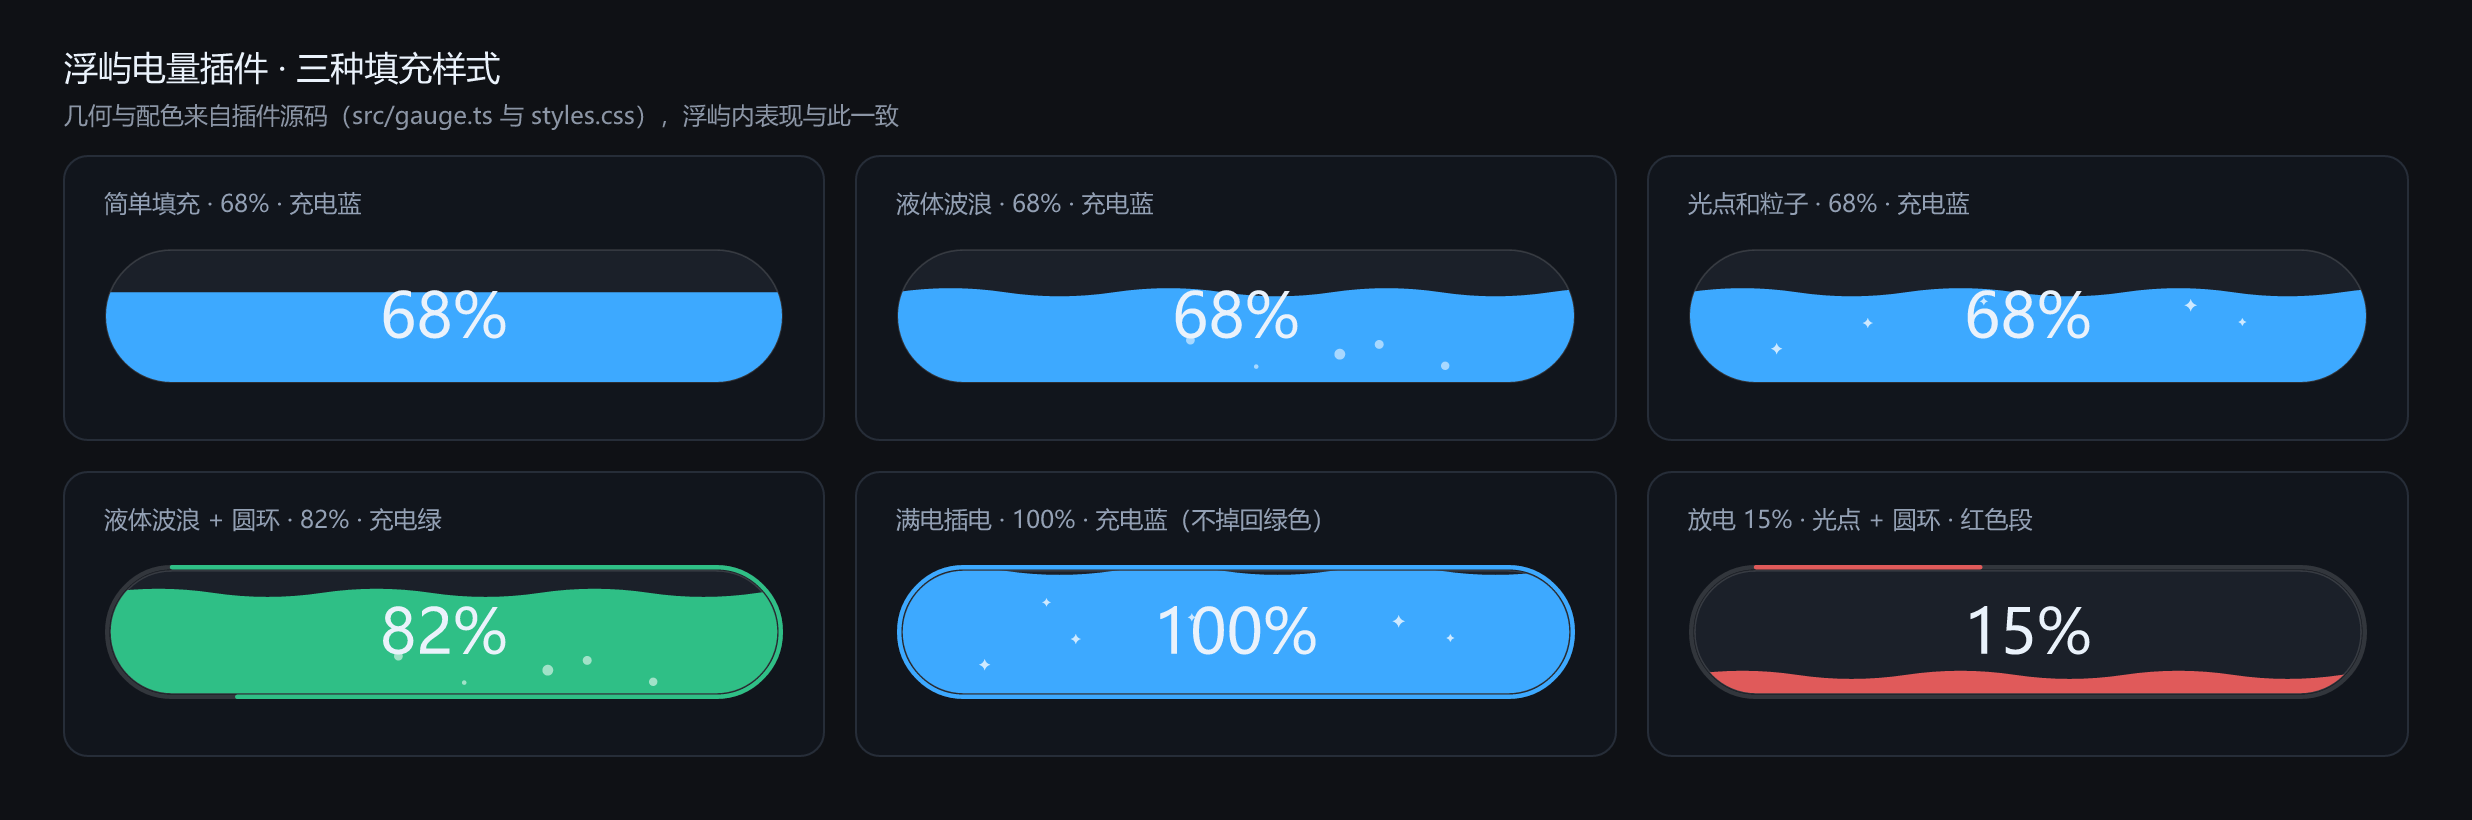
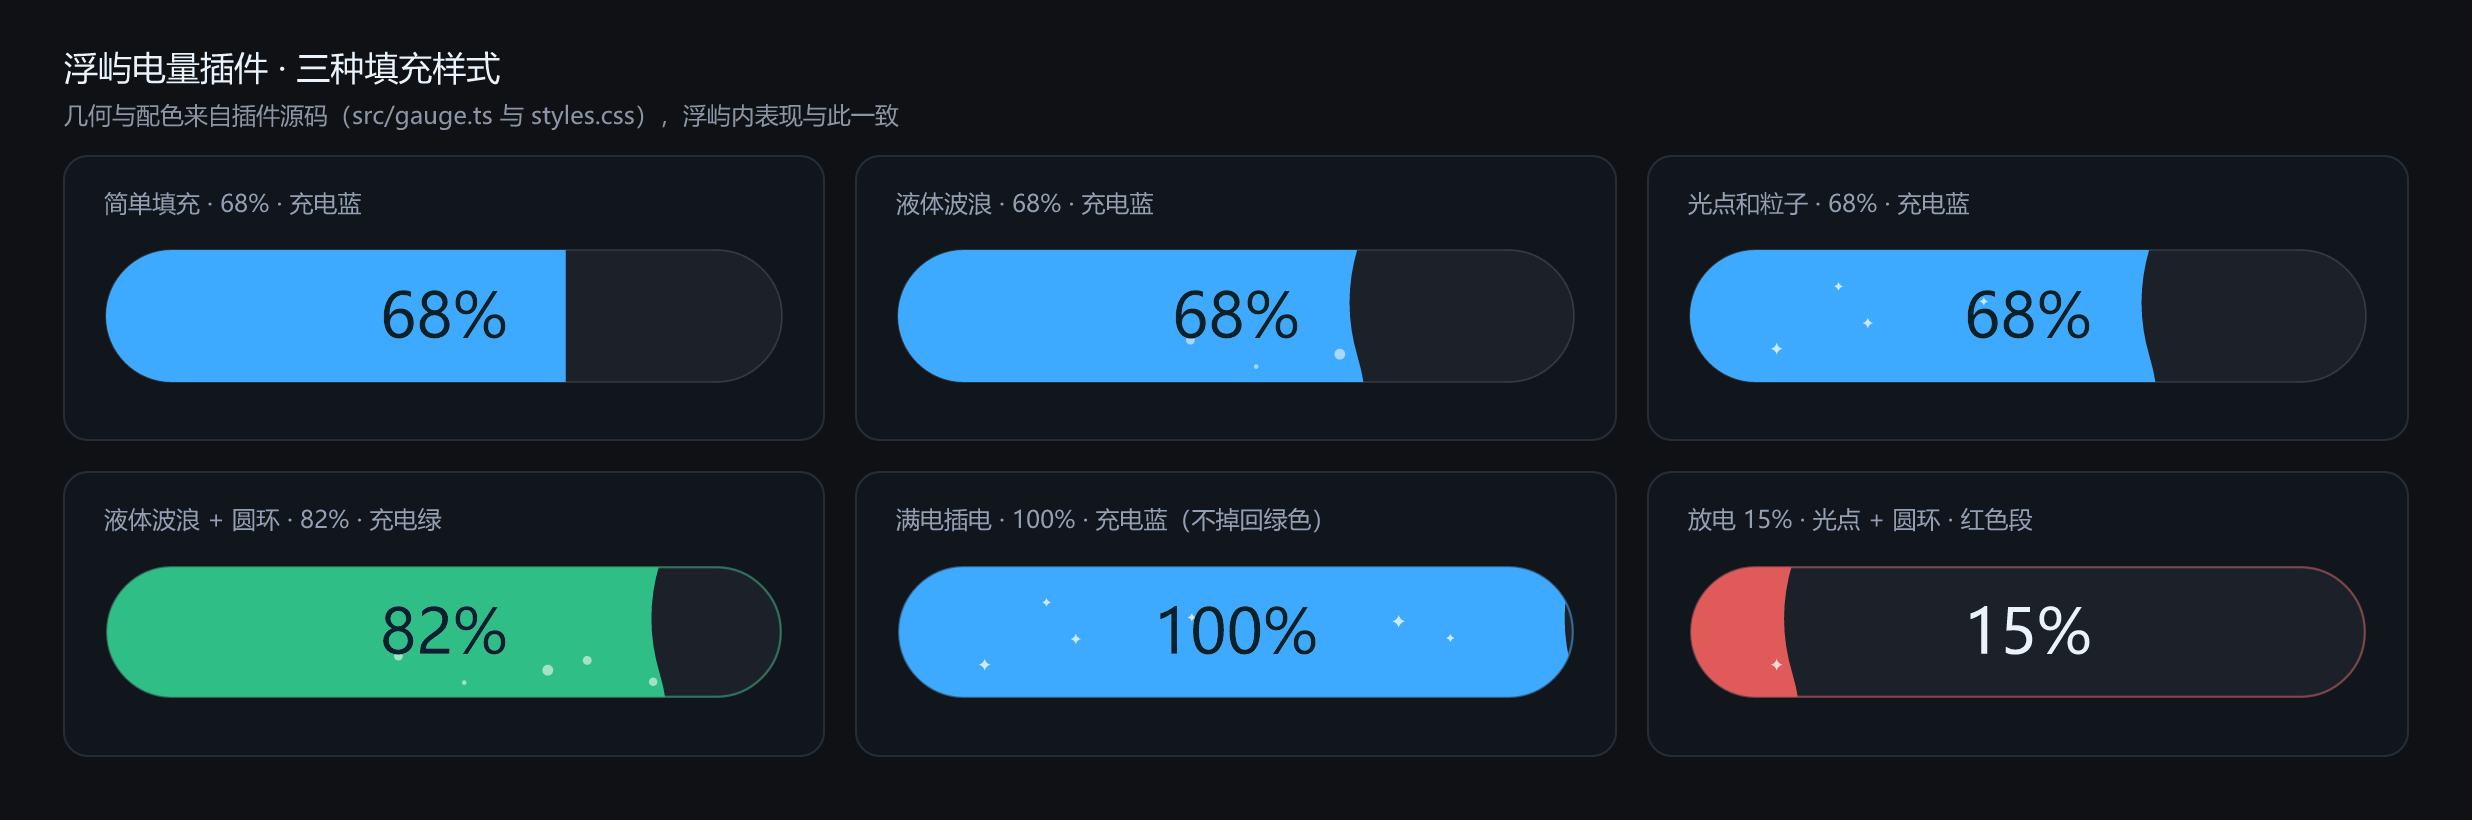
feat: fill the capsule left to right, keep the waterline in widgets
The island page now fills like a progress bar: the liquid advances from the
left edge instead of rising from the bottom, so levelOf/wavePath are joined by
fillXOf/wavePathH in gauge.ts.

Widgets keep the old water level. A bar that fills sideways turns into a plain
colour block in a square card, so Gauge takes orientation="v" and Widget passes
it. Vertical waves take their period from the width (w/2); the old h*1.6 put
half a wave in a square card and read as a slanted line.

Two fixes that came with the move:

- the vertical wave travelled 1.5 periods while the path only extends one, so
  the left edge slid into view mid-animation and left a vertical seam. It now
  travels exactly one period, with 4px of extra margin.
- a progress ring around the capsule measured the same thing as the fill but
  drew it somewhere else (at 15% the arc sat top right while the liquid was on
  the left), so the ring is now a 1.2px same-colour outline at 40% opacity.

The percentage is drawn twice, light over the empty part and dark clipped to
the liquid, so it stays readable where the fill crosses the middle. Particles
drift sideways, and a 12% white band sweeps once every 3.6s while charging.

diff --git a/src/island.tsx b/src/island.tsx
@@ -1,6 +1,6 @@
 import type { Context } from "fuyu-plugin";
 import { useEffect, useId, useState, type CSSProperties } from "react";
-import { bubbles, capsulePath, capsulePerimeter, levelOf, sparkles, starPath, wavePath } from "./gauge.ts";
+import { bubbles, capsulePath, fillXOf, levelOf, sparkles, starPath, wavePath, wavePathH } from "./gauge.ts";
 import { text } from "./text.ts";
 import {
   DEFAULT_CONFIG,
@@ -61,28 +61,47 @@ type GaugeProps = {
   style: FillStyle;
   showRing: boolean;
   animate: boolean;
+  charging: boolean;
+  /** h：液面竖直、从左往右推进（展开页）；v：液面水平、由下往上涨（挂件位，沿用原样式）。 */
+  orientation?: "h" | "v";
 };
 
 // 三种样式共用一套几何：simple 只填色，wave 加正弦液面，sparkle 再叠光点。
-function Gauge({ w, h, percent, ok, color, style, showRing, animate }: GaugeProps) {
+function Gauge({ w, h, percent, ok, color, style, showRing, animate, charging, orientation = "h" }: GaugeProps) {
   const uid = useId().replace(/[^a-zA-Z0-9]/g, "");
-  const inset = showRing ? 3.4 : 1;
-  const level = levelOf(percent, inset, Math.max(1, h - inset * 2));
-  const period = Math.max(32, Math.round(h * 1.6));
-  const amp = Math.max(1.4, Math.min(5, h * 0.06));
+  const inset = showRing ? 1.6 : 1;
+  const vertical = orientation === "v";
+  const fillX = vertical ? 0 : fillXOf(percent, inset, Math.max(1, w - inset * 2));
+  const level = vertical ? levelOf(percent, inset, Math.max(1, h - inset * 2)) : 0;
+  // 波浪周期取推进方向的垂直边：横条沿高度振荡，水位沿宽度振荡。
+  // 水位在方形卡片里如果沿用 h*1.6，一个画面只装得下半个波，看着像一条斜直线，所以按宽度收。
+  const period = vertical ? Math.max(32, Math.round(w / 2)) : Math.max(32, Math.round(h * 1.6));
+  const amp = vertical ? Math.max(1.4, Math.min(7, h * 0.04)) : Math.max(1.4, Math.min(5, h * 0.06));
   const fontSize = Math.max(11, Math.min(34, Math.round(h * 0.46)));
-  const ringPerim = capsulePerimeter(w, h, 1.6);
+  const label = ok ? `${percent}%` : "--";
   const vars = {
+    // 液面左右轻晃 ±2：幅度小到只像水面在颤，不会被读成电量在跳。
+    "--battery-sway": `${Math.max(1.5, Math.min(3, w * 0.008)).toFixed(1)}px`,
+    // 水位模式靠平移「一个周期」表现流动：波形路径左右各多画一个周期，
+    // 平移量超过一个周期，路径左边缘就会滑进画面，左侧露出底色（一条竖缝）。
     "--battery-wave-period": `${period}px`,
-    "--battery-rise": `${Math.max(12, h * 0.55)}px`,
+    // 粒子横向漂移的距离：跟着宽度走，窄条上不会一步跨出边界。
+    "--battery-flow": `${Math.round(Math.max(36, w * 0.14))}px`,
+    // 光带从左侧画外扫到右侧画外，行程按画布宽度算。
+    "--battery-sheen-travel": `${Math.round(w * 1.3)}px`,
   } as Record<string, string>;
 
-  const liquid =
-    style === "simple" ? (
-      <rect x={0} y={level} width={w} height={Math.max(0, h - level)} fill={color} />
-    ) : (
-      <path d={wavePath(w, h, level, period, amp)} fill={color} />
-    );
+  const liquid = vertical
+    ? style === "simple"
+      ? <rect x={0} y={level} width={w} height={Math.max(0, h - level)} fill={color} />
+      : <path d={wavePath(w, h, level, period, amp)} fill={color} />
+    : style === "simple"
+      ? <rect x={0} y={0} width={Math.max(0, fillX)} height={h} fill={color} />
+      : <path d={wavePathH(h, fillX, period, amp)} fill={color} />
+
+  const liquidClip = vertical
+    ? <rect x={0} y={level} width={w} height={Math.max(0, h - level)} />
+    : <rect x={0} y={0} width={Math.max(0, fillX)} height={h} />;
 
   return (
     <svg
@@ -99,16 +118,14 @@ function Gauge({ w, h, percent, ok, color, style, showRing, animate }: GaugeProp
         <clipPath id={`bcap${uid}`}>
           <path d={capsulePath(w, h, inset)} />
         </clipPath>
-        <clipPath id={`bliq${uid}`}>
-          <rect x={0} y={level} width={w} height={Math.max(0, h - level)} />
-        </clipPath>
+        <clipPath id={`bliq${uid}`}>{liquidClip}</clipPath>
       </defs>
       <path d={capsulePath(w, h, inset)} fill="var(--fuyu-plugin-surface)" stroke="var(--fuyu-plugin-border)" strokeWidth={0.8} />
       <g clipPath={`url(#bcap${uid})`}>
         {style === "simple" || !animate ? (
           liquid
         ) : (
-          <g className="battery-wave">{liquid}</g>
+          <g className={vertical ? "battery-wave battery-wave--v" : "battery-wave"}>{liquid}</g>
         )}
         {animate && style !== "simple" && (
           <g clipPath={`url(#bliq${uid})`}>
@@ -137,19 +154,31 @@ function Gauge({ w, h, percent, ok, color, style, showRing, animate }: GaugeProp
               ))}
           </g>
         )}
+        {/* 只在充电时扫光：液面以下的裁剪避免 100% 时压着胶囊顶边闪。 */}
+        {animate && charging && (
+          <g clipPath={`url(#bliq${uid})`}>
+            <rect
+              className="battery-sheen"
+              x={-w * 0.28}
+              y={0}
+              width={Math.max(24, w * 0.22)}
+              height={h}
+              rx={h / 2}
+              fill="#ffffff"
+              opacity={0}
+            />
+          </g>
+        )}
       </g>
-      {showRing && (
-        <path d={capsulePath(w, h, 1.6)} fill="none" stroke="var(--fuyu-plugin-border)" strokeWidth={2.2} />
-      )}
+      {/* 外描边：横向填充下圆环进度会和填充长度打架（15% 时刻度在右上角、液体在左边），
+          所以这里只勾一圈同色边，进度交给液面表达。 */}
       {showRing && (
         <path
           d={capsulePath(w, h, 1.6)}
           fill="none"
           stroke={color}
-          strokeWidth={2.2}
-          strokeLinecap="round"
-          strokeDasharray={ringPerim}
-          strokeDashoffset={ringPerim * (1 - percent / 100)}
+          strokeWidth={1.2}
+          opacity={0.4}
         />
       )}
       <text
@@ -161,8 +190,22 @@ function Gauge({ w, h, percent, ok, color, style, showRing, animate }: GaugeProp
         fontWeight={500}
         fill="var(--fuyu-plugin-text)"
       >
-        {ok ? `${percent}%` : "--"}
+        {label}
       </text>
+      {/* 液面盖住的半个字换深色：横条填到一半时，单色字必然有一半糊在底色里。 */}
+      <g clipPath={`url(#bliq${uid})`} aria-hidden="true">
+        <text
+          x={w / 2}
+          y={h / 2}
+          textAnchor="middle"
+          dominantBaseline="central"
+          fontSize={fontSize}
+          fontWeight={500}
+          fill="#06222f"
+        >
+          {label}
+        </text>
+      </g>
     </svg>
   );
 }
@@ -226,6 +269,7 @@ export default function apply(ctx: Context) {
             style={config.style}
             showRing={config.showRing}
             animate={config.animate}
+            charging={state.charging}
           />
         </div>
         <div className="battery__meta">
@@ -277,6 +321,8 @@ export default function apply(ctx: Context) {
             style={config.style}
             showRing={config.showRing}
             animate={config.animate}
+            charging={state.charging}
+            orientation="v"
           />
         </div>
         {!compact && (

diff --git a/src/styles.css b/src/styles.css
@@ -126,35 +126,77 @@
   font-variant-numeric: tabular-nums;
 }
 
+/* 横条填充下液面是纵波，左右轻晃 ±2：再大就会被读成电量在跳。 */
+@keyframes battery-wave-sway {
+  from {
+    transform: translateX(calc(var(--battery-sway, 2px) * -1));
+  }
+  to {
+    transform: translateX(var(--battery-sway, 2px));
+  }
+}
+
+.battery-wave {
+  animation: battery-wave-sway var(--battery-wave-dur, 4.8s) ease-in-out infinite alternate;
+}
+
+/* 挂件位沿用原来的「水位」：水面是横的，靠平移一个周期表现流动。 */
 @keyframes battery-wave-shift {
   from {
     transform: translateX(0);
   }
   to {
-    transform: translateX(calc(var(--battery-wave-period, 80px) * -1));
+    transform: translateX(var(--battery-wave-period, 80px));
   }
 }
 
-.battery-wave {
+.battery-wave--v {
   animation: battery-wave-shift var(--battery-wave-dur, 3.6s) linear infinite;
 }
 
-@keyframes battery-bubble-rise {
+/* 粒子改横向漂移：原来上下浮动会让人读成「在冒泡」，不是「在流动」。 */
+@keyframes battery-bubble-flow {
   0% {
-    transform: translateY(0);
+    transform: translateX(0);
     opacity: 0;
   }
-  20% {
-    opacity: 0.75;
+  18% {
+    opacity: 0.6;
+  }
+  72% {
+    opacity: 0.5;
   }
   100% {
-    transform: translateY(calc(var(--battery-rise, 40px) * -1));
+    transform: translateX(var(--battery-flow, 56px));
     opacity: 0;
   }
 }
 
 .battery-bubble {
-  animation: battery-bubble-rise var(--battery-bubble-dur, 3s) ease-in-out infinite;
+  animation: battery-bubble-flow var(--battery-bubble-dur, 3s) ease-in-out infinite;
+}
+
+/* 充电时每 3.6 秒一道光带从左扫到右，静止时也看得出「在进电」。 */
+@keyframes battery-sheen {
+  0% {
+    transform: translateX(0);
+    opacity: 0;
+  }
+  10% {
+    opacity: 0.14;
+  }
+  30% {
+    transform: translateX(var(--battery-sheen-travel, 320px));
+    opacity: 0;
+  }
+  100% {
+    transform: translateX(var(--battery-sheen-travel, 320px));
+    opacity: 0;
+  }
+}
+
+.battery-sheen {
+  animation: battery-sheen 3.6s ease-in-out infinite;
 }
 
 @keyframes battery-sparkle-pulse {
@@ -177,14 +219,16 @@
 
 .battery-still .battery-wave,
 .battery-still .battery-bubble,
-.battery-still .battery-sparkle {
+.battery-still .battery-sparkle,
+.battery-still .battery-sheen {
   animation: none;
 }
 
 @media (prefers-reduced-motion: reduce) {
   .battery-wave,
   .battery-bubble,
-  .battery-sparkle {
+  .battery-sparkle,
+  .battery-sheen {
     animation: none;
   }
 }

diff --git a/src/gauge.ts b/src/gauge.ts
@@ -34,17 +34,24 @@ export function capsulePerimeter(w: number, h: number, inset = 0): number {
   return 2 * (iw - 2 * r) + 2 * Math.PI * r;
 }
 
-// percent=0 液面贴底，100 贴顶；top 是容器内边距后的顶边。
+// percent=0 液面贴左，100 贴右；left 是内边距后的左边界，width 是可填充宽度。
+export function fillXOf(percent: number, left: number, width: number): number {
+  const p = Math.min(100, Math.max(0, percent));
+  return left + width * (p / 100);
+}
+
+// percent=0 液面贴底，100 贴顶；top 是内边距后的顶边。挂件位沿用这套「水位」。
 export function levelOf(percent: number, top: number, height: number): number {
   const p = Math.min(100, Math.max(0, percent));
   return top + height * (1 - p / 100);
 }
 
-// 液面波形：先一段二次贝塞尔，再用 T 连续反射控制点，得到平滑正弦。
-// 路径左右各多画一个周期，横向平移一个周期即可无缝循环。
+// 横向液面：从下往上填充时，液面是一条横波，实心区在液面下方。
+// 先一段二次贝塞尔，再用 T 连续反射控制点，得到平滑正弦；左右各多画一个周期（左侧再留 4px），
+// 循环平移一个周期时边缘始终在画布外，不会露出底色。
 export function wavePath(w: number, h: number, level: number, period: number, amp: number): string {
   const seg = period / 2;
-  const start = -period;
+  const start = -period - 4;
   const end = w + period;
   let d = `M ${start} ${level}`;
   d += ` Q ${start + seg / 2} ${level - amp} ${start + seg} ${level}`;
@@ -54,6 +61,23 @@ export function wavePath(w: number, h: number, level: number, period: number, am
     d += ` T ${x} ${level}`;
   }
   d += ` L ${x} ${h} L ${start} ${h} Z`;
+  return d;
+}
+
+// 竖向液面：从左往右填充时，液面是一条纵波，实心区在液面左侧。
+// 先一段二次贝塞尔，再用 T 连续反射控制点，得到平滑正弦；上下各多画一个周期，平移时不会露底。
+export function wavePathH(h: number, x: number, period: number, amp: number): string {
+  const seg = period / 2;
+  const start = -period;
+  const end = h + period;
+  let d = `M ${x} ${start}`;
+  d += ` Q ${x - amp * 2} ${start + seg / 2} ${x} ${start + seg}`;
+  let y = start + seg;
+  while (y < end) {
+    y += seg;
+    d += ` T ${x} ${y}`;
+  }
+  d += ` L ${start} ${y} L ${start} ${start} Z`;
   return d;
 }
 

diff --git a/README.md b/README.md
@@ -1,14 +1,14 @@
 # 电量 · Battery
 
-浮屿（Fuyu）插件。在岛上显示电池电量与充电状态，胶囊随电量填充，支持液体波浪和光点粒子两种动画。
+浮屿（Fuyu）插件。在岛上显示电池电量与充电状态：展开页的胶囊像进度条一样从左往右填满，挂件位保留原来的水位样式（由下往上涨），支持光点粒子动画。
 
 ![三种填充样式](docs/preview.png)
 
 ## 功能
 
 - **三种填充样式**：简单填充、液体波浪、光点和粒子
-- **胶囊填充**：液面高度跟随电量，插着电源时用设定颜色（满电也是该颜色），纯电池时按电量变绿 / 黄 / 红
-- **电量圆环**：沿胶囊边缘画进度，颜色与填充一致
+- **胶囊填充**：展开页液面从左往右推进，挂件位由下往上涨；插着电源时用设定颜色（满电也是该颜色），纯电池时按电量变绿 / 黄 / 红
+- **外圈描边**：沿胶囊边缘加一圈同色描边，勾出液体轮廓
 - **收起条**：图标 + 迷你进度条 + 百分比
 - **页面**：大号胶囊、状态、预计充满 / 剩余可用、充电功率、电池名称
 - **提醒**：电量跌到阈值提醒一次，充满提醒拔电，都在岛上弹出，阈值与开关可配
@@ -50,7 +50,7 @@
 | 填充动画 | `simple` / `wave` / `sparkle` |
 | 充电时的颜色 | `green` / `blue` / `accent` / `custom` |
 | 自定义颜色 | `#rrggbb`，仅 `custom` 时生效 |
-| 显示电量圆环 | 关闭时胶囊只留 1px 内边距 |
+| 显示外圈描边 | 沿胶囊边缘加一圈同色描边，电量由液面长度表达 |
 | 开启动画 | 关闭后波浪与粒子静止，适合常驻省电 |
 | 低电量提醒 | 跌破阈值时在岛上提醒一次，插电或回血 5 个百分点后重置 |
 | 低电量阈值 | `10` / `15` / `20` / `30`，默认 20 |
